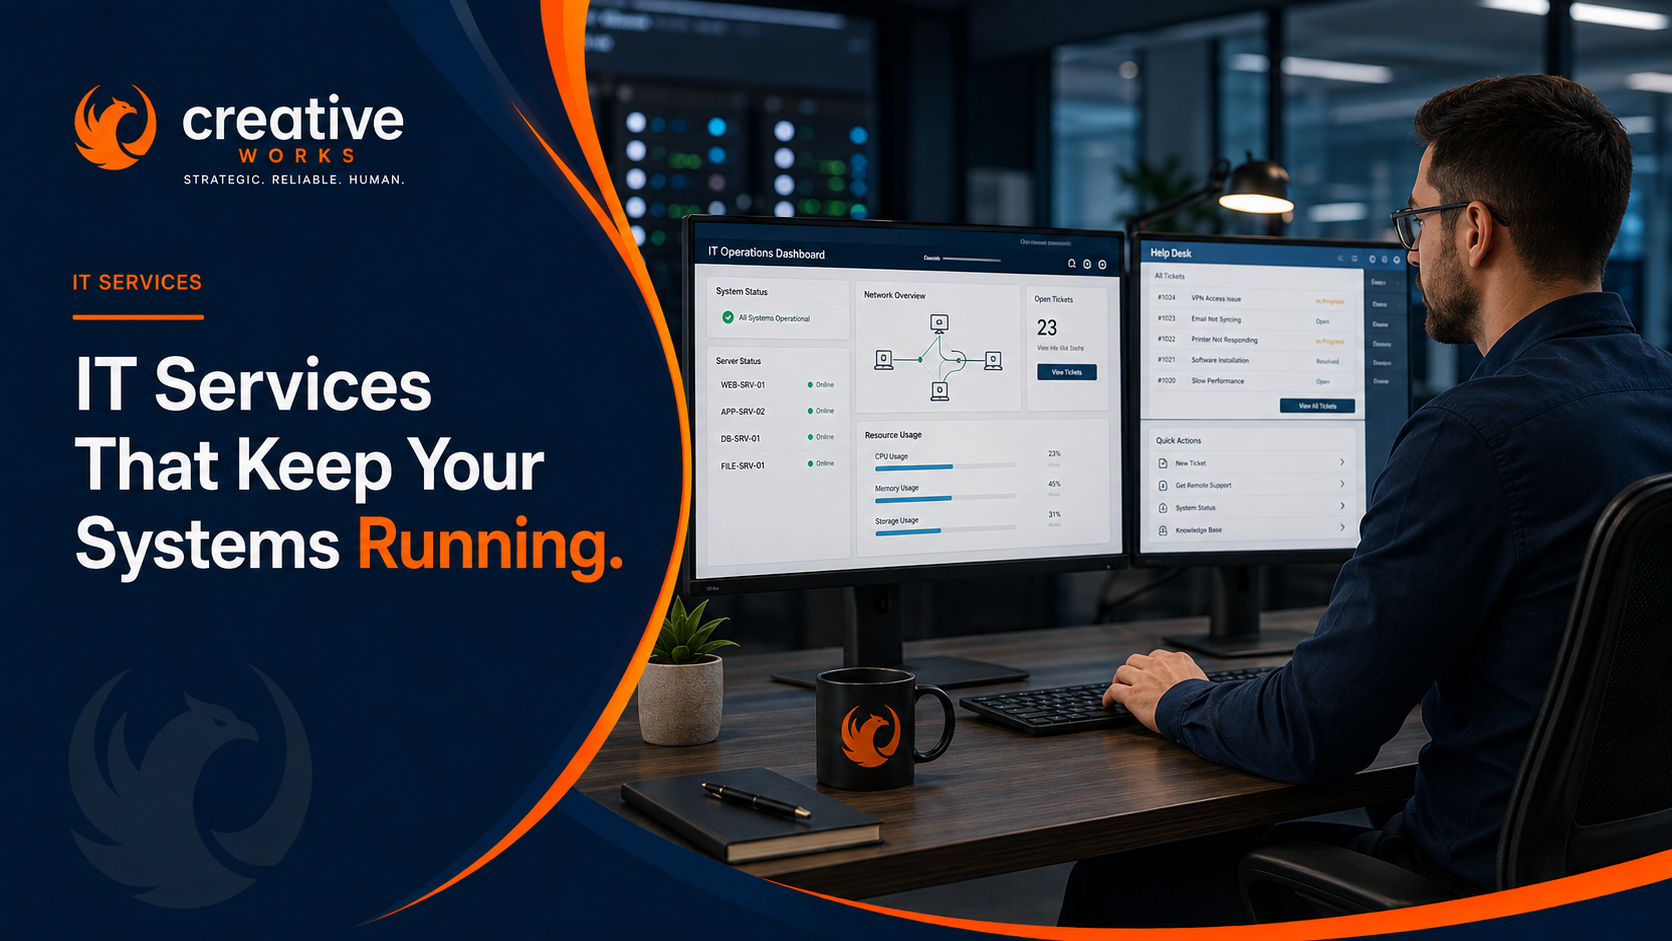
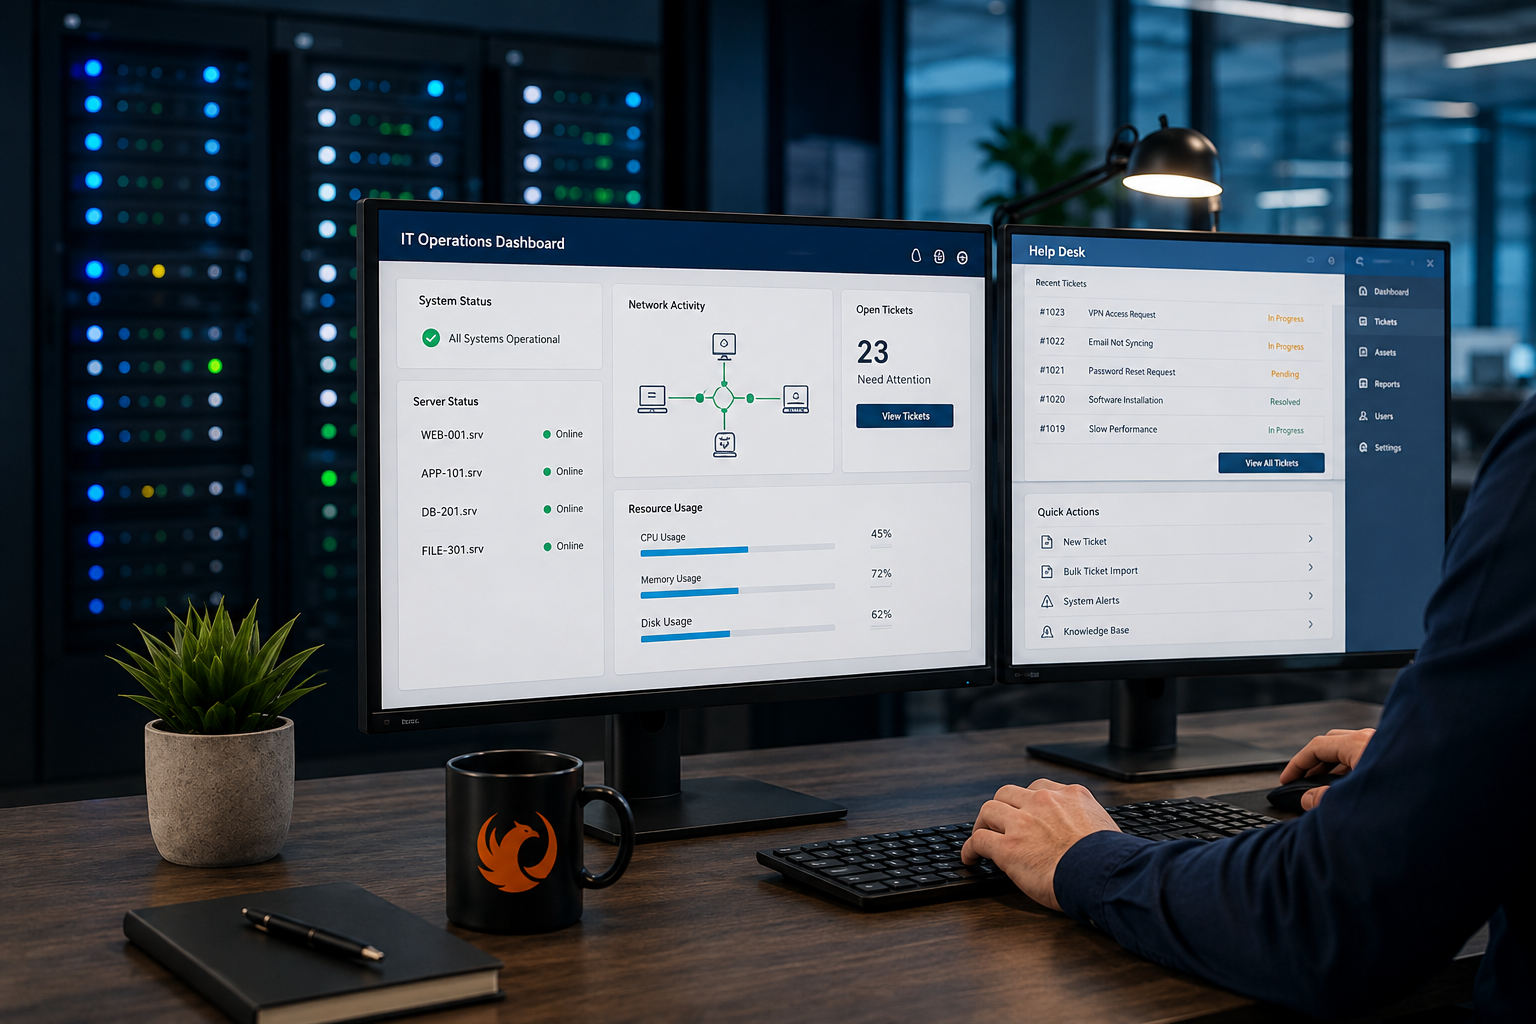
Replace IT Services hero image (#33)
Removes the left-edge crop tuned to the previous photo.

Claude-Session: https://claude.ai/code/session_01QqSBB2cHWwKLvcknEucW6C

diff --git a/lib/services.ts b/lib/services.ts
@@ -726,9 +726,7 @@ export const SERVICES: ServiceConfig[] = [
     eyebrow: "IT Services",
     title: "Technology that just works, so your team can focus on care.",
     lead: "Reliable systems are the quiet foundation behind everything your organization does. We provide practical, secure IT support that keeps accounts, devices, and tools running without the headaches.",
-    heroPlaceholder: "it-services/1",
     heroImage: "/images/it-hero.png",
-    heroImagePosition: "left center",
     href: "/services/it-services",
     tagline: "Secure, reliable technology support.",
     short:
